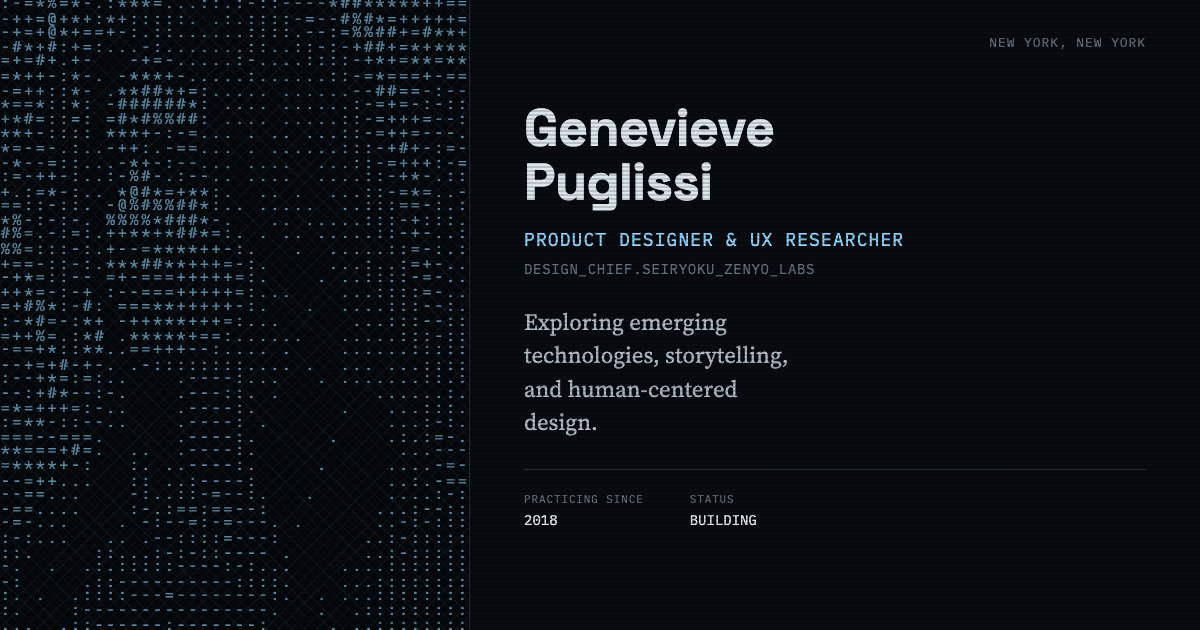
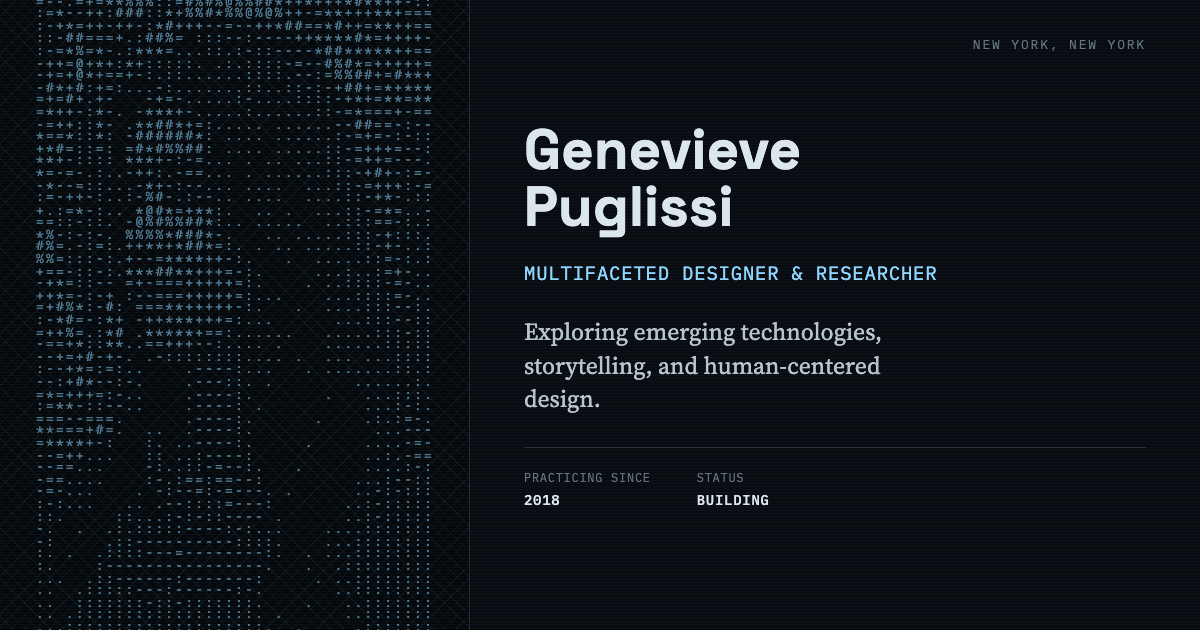
Title: Multifaceted Designer & Researcher; drop Design Chief from landing page; new social cover

diff --git a/index.html b/index.html
@@ -3,21 +3,21 @@
 <head>
 <meta charset="UTF-8">
 <meta name="viewport" content="width=device-width, initial-scale=1.0, viewport-fit=cover">
-<title>Genevieve Puglissi — Product Designer &amp; UX Researcher</title>
-  <meta name="description" content="Product designer and UX researcher in New York, working across sports, fintech, healthcare, life sciences, wellness, fashion, and e-commerce.">
+<title>Genevieve Puglissi — Multifaceted Designer &amp; Researcher</title>
+  <meta name="description" content="Multifaceted designer and researcher in New York, working across sports, fintech, healthcare, life sciences, wellness, fashion, and e-commerce.">
   <link rel="canonical" href="https://www.gen-pug.com/">
   <meta property="og:type" content="website">
   <meta property="og:site_name" content="Genevieve Puglissi">
-  <meta property="og:title" content="Genevieve Puglissi — Product Designer &amp; UX Researcher">
-  <meta property="og:description" content="Product designer and UX researcher in New York, working across sports, fintech, healthcare, life sciences, wellness, fashion, and e-commerce.">
+  <meta property="og:title" content="Genevieve Puglissi — Multifaceted Designer &amp; Researcher">
+  <meta property="og:description" content="Multifaceted designer and researcher in New York, working across sports, fintech, healthcare, life sciences, wellness, fashion, and e-commerce.">
   <meta property="og:url" content="https://www.gen-pug.com/">
   <meta property="og:image" content="https://www.gen-pug.com/assets/social/og-cover.png">
   <meta property="og:image:width" content="1200">
   <meta property="og:image:height" content="630">
-  <meta property="og:image:alt" content="Genevieve Puglissi — Product Designer and UX Researcher">
+  <meta property="og:image:alt" content="Genevieve Puglissi — Multifaceted Designer and Researcher">
   <meta name="twitter:card" content="summary_large_image">
-  <meta name="twitter:title" content="Genevieve Puglissi — Product Designer &amp; UX Researcher">
-  <meta name="twitter:description" content="Product designer and UX researcher in New York, working across sports, fintech, healthcare, life sciences, wellness, fashion, and e-commerce.">
+  <meta name="twitter:title" content="Genevieve Puglissi — Multifaceted Designer &amp; Researcher">
+  <meta name="twitter:description" content="Multifaceted designer and researcher in New York, working across sports, fintech, healthcare, life sciences, wellness, fashion, and e-commerce.">
   <meta name="twitter:image" content="https://www.gen-pug.com/assets/social/og-cover.png">
   <link rel="icon" href="favicon.svg" type="image/svg+xml">
   <link rel="icon" href="favicon-32.png" sizes="32x32" type="image/png">
@@ -423,8 +423,7 @@
         <div class="id-fields">
           <div class="id-ident">
             <div class="id-name">GENEVIEVE PUGLISSI</div>
-            <div class="id-role">PRODUCT DESIGNER &amp; UX RESEARCHER</div>
-            <div class="id-callsign">DESIGN_CHIEF.SEIRYOKU_ZENYO_LABS</div>
+            <div class="id-role">MULTIFACETED DESIGNER &amp; RESEARCHER</div>
             <p class="id-tagline">Exploring emerging technologies, storytelling, and human-centered design.</p>
           </div>
 
@@ -510,7 +509,7 @@
           <img src="assets/logos/magi.png" alt="Magi Vision medallion logo">
         </div>
         <div class="row-index">03</div>
-        <div><div class="row-title">Magi Vision</div><div class="row-org">SEIRYOKU ZENYO LABS — CO-FOUNDER &amp; DESIGN CHIEF</div></div>
+        <div><div class="row-title">Magi Vision</div><div class="row-org">SEIRYOKU ZENYO LABS — CO-FOUNDER</div></div>
         <div class="row-toggle">+</div>
       </div>
       <div class="row-body"><div class="row-body-inner">
@@ -578,7 +577,7 @@
             <div class="xp-date">AUG 2026 —</div>
           </div>
           <div class="xp-item">
-            <div><div class="xp-role">Co-Founder &amp; Design Chief</div><div class="xp-org">STEALTH STARTUP — GRAPPLING &amp; COMPUTER VISION · PART-TIME</div></div>
+            <div><div class="xp-role">Co-Founder</div><div class="xp-org">STEALTH STARTUP — GRAPPLING &amp; COMPUTER VISION · PART-TIME</div></div>
             <div class="xp-date">MAY 2026 —</div>
           </div>
           <div class="xp-item">

diff --git a/haddad-case-study.html b/haddad-case-study.html
@@ -14,7 +14,7 @@
   <meta property="og:image" content="https://www.gen-pug.com/assets/social/og-cover.png">
   <meta property="og:image:width" content="1200">
   <meta property="og:image:height" content="630">
-  <meta property="og:image:alt" content="Genevieve Puglissi — Product Designer and UX Researcher">
+  <meta property="og:image:alt" content="Genevieve Puglissi — Multifaceted Designer and Researcher">
   <meta name="twitter:card" content="summary_large_image">
   <meta name="twitter:title" content="Haddad Brands — Genevieve Puglissi">
   <meta name="twitter:description" content="Packaging and production design for Levi's, Nike, Ralph Lauren and Lacoste: print-ready mechanicals, bilingual compliance, and factory-ready specs.">

diff --git a/medusa-case-study.html b/medusa-case-study.html
@@ -14,7 +14,7 @@
   <meta property="og:image" content="https://www.gen-pug.com/assets/social/og-cover.png">
   <meta property="og:image:width" content="1200">
   <meta property="og:image:height" content="630">
-  <meta property="og:image:alt" content="Genevieve Puglissi — Product Designer and UX Researcher">
+  <meta property="og:image:alt" content="Genevieve Puglissi — Multifaceted Designer and Researcher">
   <meta name="twitter:card" content="summary_large_image">
   <meta name="twitter:title" content="Turn to Stone — Genevieve Puglissi">
   <meta name="twitter:description" content="Turn to Stone — founding designer at Medusa Solutions Inc. End-to-end product design for a B2C SaaS iOS app and website.">

diff --git a/magi-vision-case-study.html b/magi-vision-case-study.html
@@ -14,7 +14,7 @@
   <meta property="og:image" content="https://www.gen-pug.com/assets/social/og-cover.png">
   <meta property="og:image:width" content="1200">
   <meta property="og:image:height" content="630">
-  <meta property="og:image:alt" content="Genevieve Puglissi — Product Designer and UX Researcher">
+  <meta property="og:image:alt" content="Genevieve Puglissi — Multifaceted Designer and Researcher">
   <meta name="twitter:card" content="summary_large_image">
   <meta name="twitter:title" content="Magi Vision — Genevieve Puglissi">
   <meta name="twitter:description" content="A computer-vision platform for combat-sports gyms, built from concept through launch. Co-founder and design chief.">

diff --git a/freelance.html b/freelance.html
@@ -14,7 +14,7 @@
   <meta property="og:image" content="https://www.gen-pug.com/assets/social/og-cover.png">
   <meta property="og:image:width" content="1200">
   <meta property="og:image:height" content="630">
-  <meta property="og:image:alt" content="Genevieve Puglissi — Product Designer and UX Researcher">
+  <meta property="og:image:alt" content="Genevieve Puglissi — Multifaceted Designer and Researcher">
   <meta name="twitter:card" content="summary_large_image">
   <meta name="twitter:title" content="Selected Visual Design — Genevieve Puglissi">
   <meta name="twitter:description" content="Freelance packaging, print, signage and apparel graphics for Medusa Solutions and Kano Martial Arts.">

diff --git a/new-payments-experience-case-study.html b/new-payments-experience-case-study.html
@@ -14,7 +14,7 @@
   <meta property="og:image" content="https://www.gen-pug.com/assets/social/og-cover.png">
   <meta property="og:image:width" content="1200">
   <meta property="og:image:height" content="630">
-  <meta property="og:image:alt" content="Genevieve Puglissi — Product Designer and UX Researcher">
+  <meta property="og:image:alt" content="Genevieve Puglissi — Multifaceted Designer and Researcher">
   <meta name="twitter:card" content="summary_large_image">
   <meta name="twitter:title" content="New Payments Experience — Genevieve Puglissi">
   <meta name="twitter:description" content="The New Payments Experience at Justworks — redesigning the payments flow end to end.">

diff --git a/sandbox.html b/sandbox.html
@@ -14,7 +14,7 @@
   <meta property="og:image" content="https://www.gen-pug.com/assets/social/og-cover.png">
   <meta property="og:image:width" content="1200">
   <meta property="og:image:height" content="630">
-  <meta property="og:image:alt" content="Genevieve Puglissi — Product Designer and UX Researcher">
+  <meta property="og:image:alt" content="Genevieve Puglissi — Multifaceted Designer and Researcher">
   <meta name="twitter:card" content="summary_large_image">
   <meta name="twitter:title" content="Sandbox — Genevieve Puglissi">
   <meta name="twitter:description" content="Everything else I found joy in creating — from agency work, to freelance projects, and experiments.">

diff --git a/lifecycle-case-study.html b/lifecycle-case-study.html
@@ -14,7 +14,7 @@
   <meta property="og:image" content="https://www.gen-pug.com/assets/social/og-cover.png">
   <meta property="og:image:width" content="1200">
   <meta property="og:image:height" content="630">
-  <meta property="og:image:alt" content="Genevieve Puglissi — Product Designer and UX Researcher">
+  <meta property="og:image:alt" content="Genevieve Puglissi — Multifaceted Designer and Researcher">
   <meta name="twitter:card" content="summary_large_image">
   <meta name="twitter:title" content="LIFECYCLE — Genevieve Puglissi">
   <meta name="twitter:description" content="LIFECYCLE — a case study and film, Creative Conscience Gold Award.">

diff --git a/payapp-case-study.html b/payapp-case-study.html
@@ -14,7 +14,7 @@
   <meta property="og:image" content="https://www.gen-pug.com/assets/social/og-cover.png">
   <meta property="og:image:width" content="1200">
   <meta property="og:image:height" content="630">
-  <meta property="og:image:alt" content="Genevieve Puglissi — Product Designer and UX Researcher">
+  <meta property="og:image:alt" content="Genevieve Puglissi — Multifaceted Designer and Researcher">
   <meta name="twitter:card" content="summary_large_image">
   <meta name="twitter:title" content="PayApp — Genevieve Puglissi">
   <meta name="twitter:description" content="PayApp at Justworks — product design for a B2B payments experience.">
